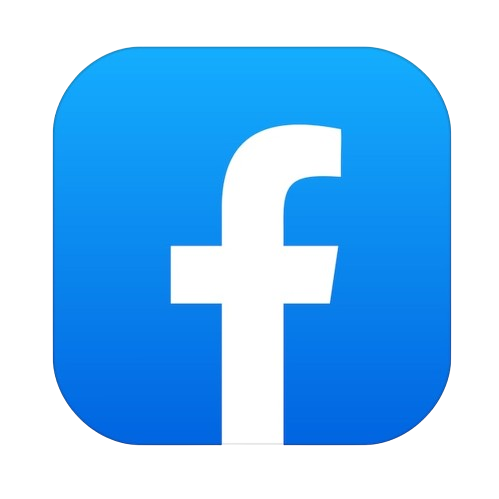
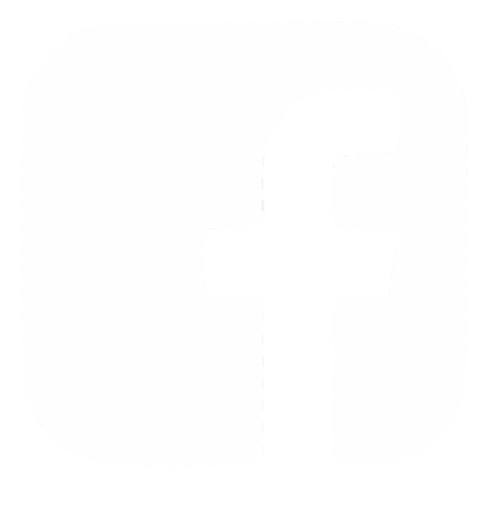
mobile and footer edited

diff --git a/main.js b/main.js
@@ -177,8 +177,8 @@ function showOrder() {
 </section>
 <section class="sabor">
 <div class="tradicional"><img src="./img/calabaza.png" alt="calabaza"><p><strong>Tradicional</strong></p> <p>Viaja al corazón de la tradición saludable con nuestra Granola Keto Tradicional. Una mezcla equilibrada de ingredientes nutritivos para un desayuno lleno de energía. ¡Siente el sabor clásico de lo bueno para ti</p> </p></div>
-<div class="frutoRojo"><img src="./img/calabaza.png" alt="calabaza"><p><strong>Tradicional</strong></p> <p>Viaja al corazón de la tradición saludable con nuestra Granola Keto Tradicional. Una mezcla equilibrada de ingredientes nutritivos para un desayuno lleno de energía. ¡Siente el sabor clásico de lo bueno para ti</p> </div>
-<div class="chocolate"></div>
+<div class="frutoRojo"><img src="./img/calabaza.png" alt="calabaza"><p><strong>Frutos rojos</strong></p> <p>Viaja al corazón de la tradición saludable con nuestra Granola Keto Tradicional. Una mezcla equilibrada de ingredientes nutritivos para un desayuno lleno de energía. ¡Siente el sabor clásico de lo bueno para ti</p> </div>
+<div class="chocolate"><img src="./img/calabaza.png" alt="calabaza"><p><strong>Chocolate</strong></p> <p>Viaja al corazón de la tradición saludable con nuestra Granola Keto Tradicional. Una mezcla equilibrada de ingredientes nutritivos para un desayuno lleno de energía. ¡Siente el sabor clásico de lo bueno para ti</p> </div>
 </section>
     `;
 }

diff --git a/style.css b/style.css
@@ -203,6 +203,7 @@ footer {
   display: flex;
   background: var(--blue);
   padding: 0;
+
 }
 
 footer ul {
@@ -217,7 +218,7 @@ footer ul li a {
   color: white;
   text-decoration: none;
   font-family:'Lucida Sans', 'Lucida Sans Regular', 'Lucida Grande', 'Lucida Sans Unicode', Geneva, Verdana, sans-serif;
-  font-weight: 580;
+ 
 
 }
 
@@ -226,12 +227,12 @@ footer div {
 }
 
 .divfi {
-  padding-top: 1.5%;
+  padding: 2%;
 }
 
 .divfi a img {
-  width: 13%;
-  height: 60%;
+  width: 8%;
+  height: 100%;
 }
 
 .divshow {
@@ -451,7 +452,8 @@ footer div {
     overflow-x: hidden;
  }
 
-  .desktop-menu {
+  .desktop-menu,
+  .cimg-div {
     display: none;
   }
 
@@ -508,7 +510,8 @@ footer div {
 
   .div2,
   .about2,
-  .column div {
+  .column div,
+  .three {
     display:flex;/* estos*/
     justify-content: center;/* 3*/
     align-items: center;
@@ -537,8 +540,8 @@ footer div {
   }
 
   .divfi a img {
-    width: 25%;
-    height: 40%;
+    width: 20%;
+    height: 45%;
   }
 
   .comment-box {
